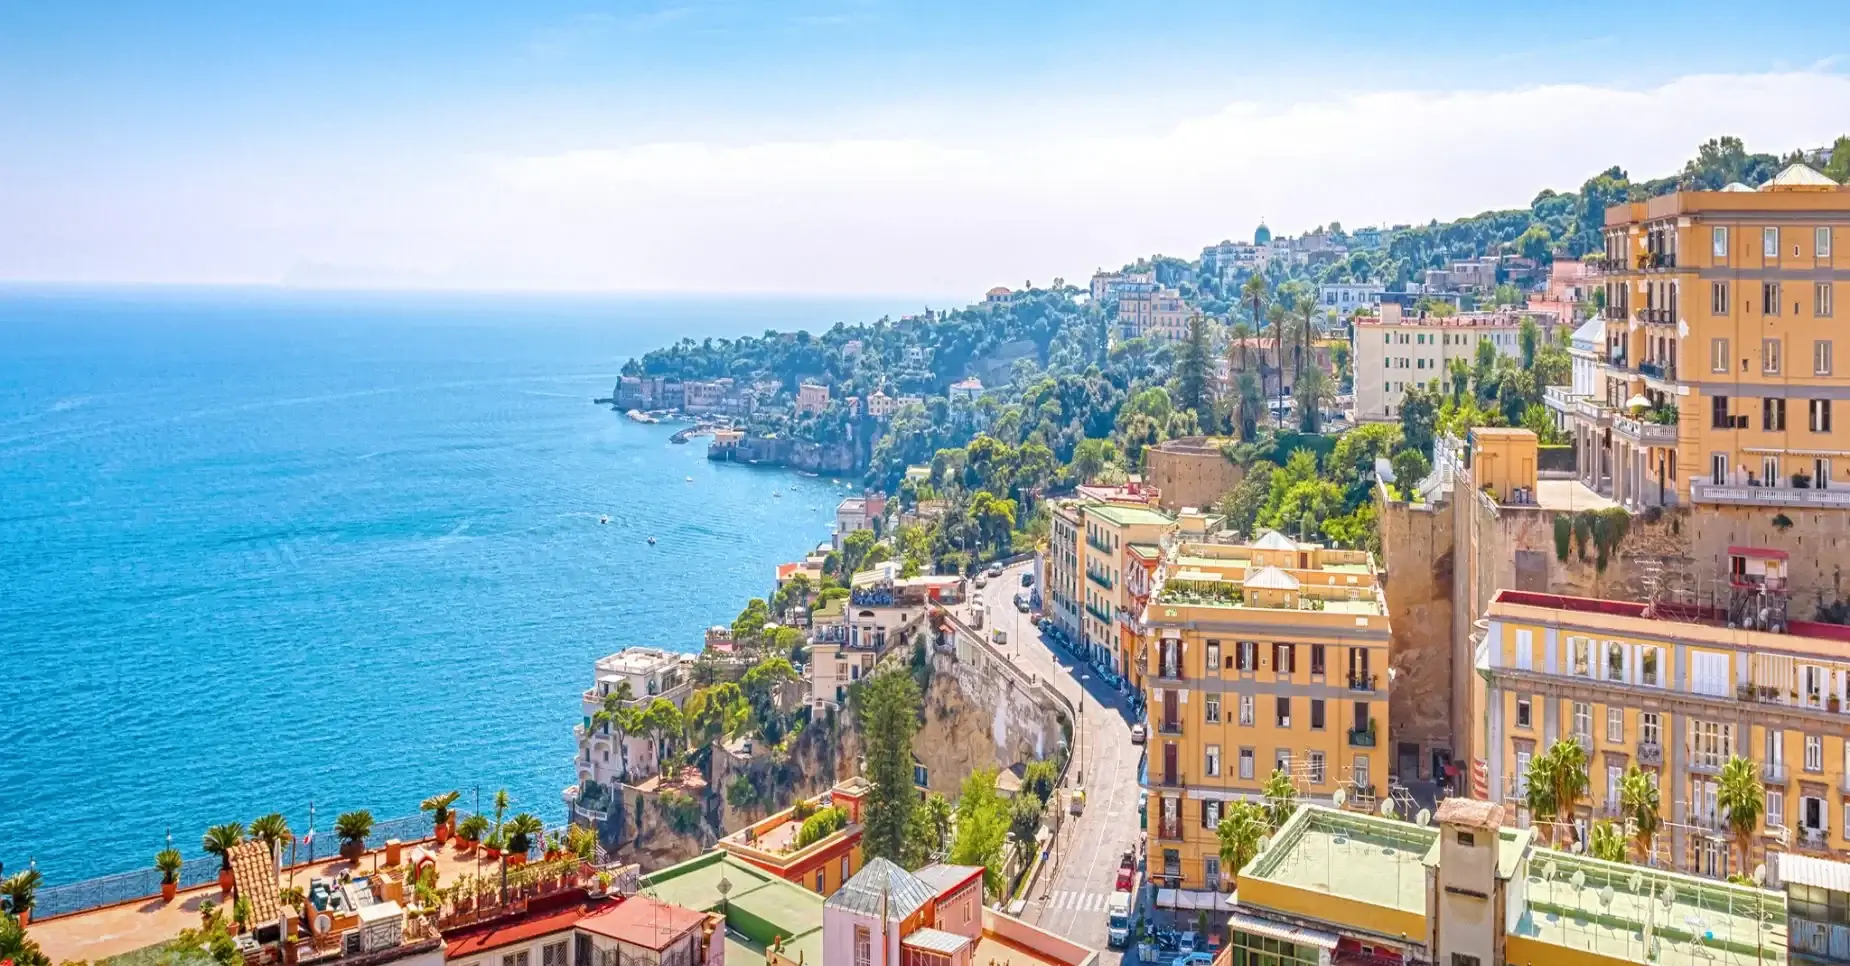
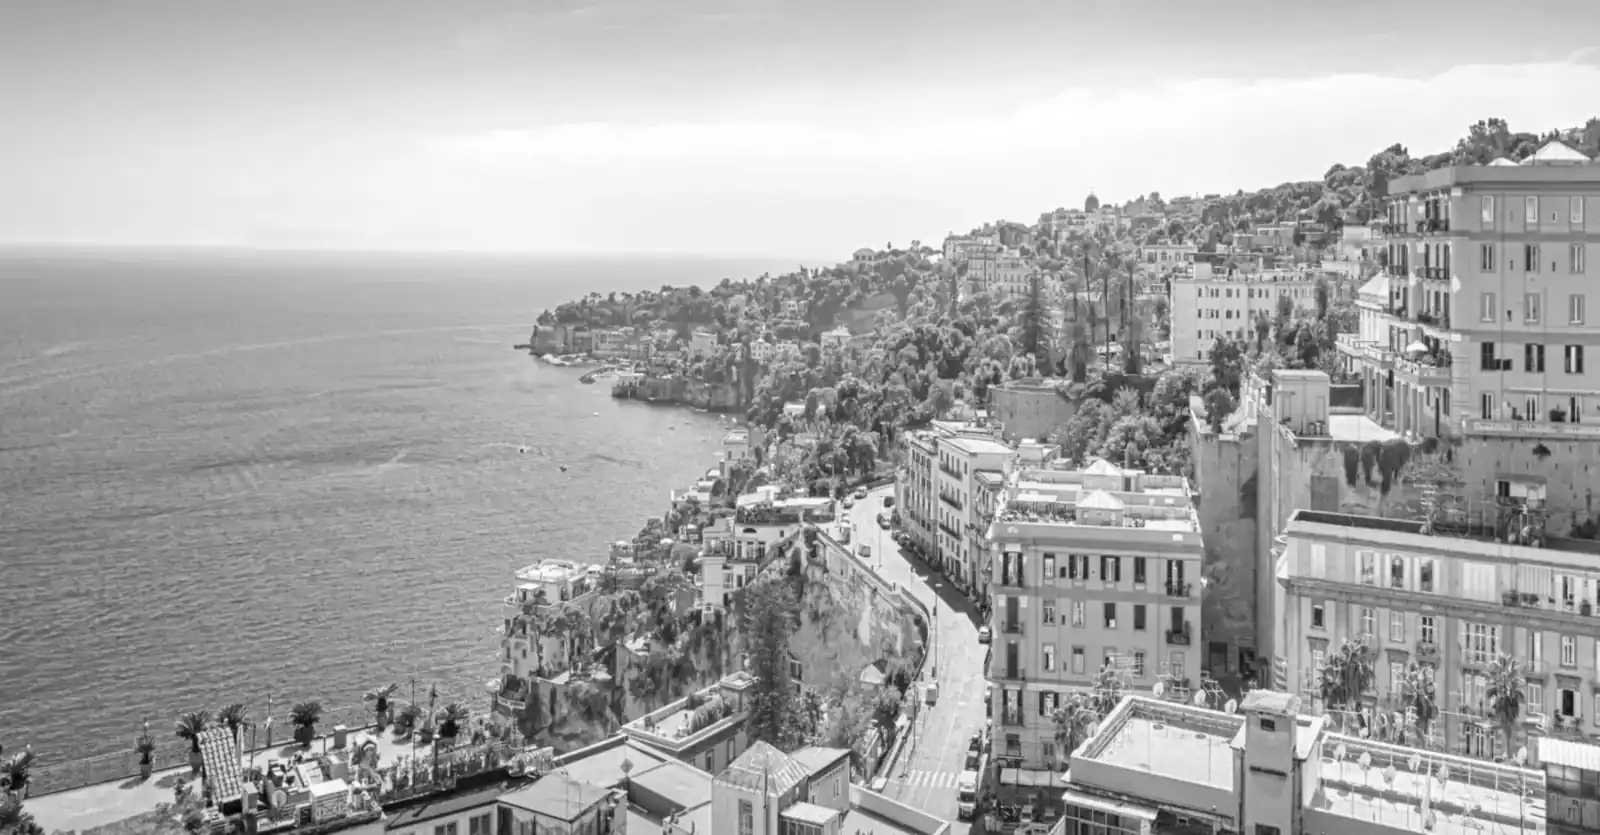
update views

diff --git a/src/app/globals.css b/src/app/globals.css
@@ -1,5 +1,8 @@
 @import "tailwindcss";
-@import '@tabler/icons-webfont/dist/tabler-icons.min.css';
+/* Tabler icons NU se importă aici. Fontul aduce 5193 de clase (~185 KB din
+   248 KB de CSS), folosite exclusiv în SearchClient (pagina /search), iar
+   globals.css e render-blocking pe TOATE paginile. Importul stă acum în
+   src/components/SearchClient.tsx, deci costul îl plătește doar /search. */
 
 /* ============================================================
    PLECĂRI — sistem de design (editorial cald)
@@ -117,10 +120,8 @@ button.primary:hover,
 .brand-name { font-family: var(--font-display); font-weight: 600; font-size: 1.5rem; letter-spacing: -0.02em; }
 
 .site-nav { display: flex; align-items: center; gap: 1.25rem; margin-left: auto; }
-.site-nav ul { display: flex; align-items: center; gap: 0.3rem; list-style: none; margin: 0; padding: 0; flex-wrap: wrap; }
-/* white-space: nowrap — o etichetă de două cuvinte ("Închirieri auto") nu se
-   rupe niciodată pe două linii în interiorul pastilei. */
-.site-nav a { display: inline-block; padding: 0.45rem 0.6rem; border-radius: 999px; color: var(--ink-soft); text-decoration: none; font-weight: 500; font-size: 0.94rem; white-space: nowrap; transition: color 0.15s, background 0.15s; }
+.site-nav ul { display: flex; align-items: center; gap: 0.35rem; list-style: none; margin: 0; padding: 0; flex-wrap: wrap; }
+.site-nav a { display: inline-block; padding: 0.45rem 0.7rem; border-radius: 999px; color: var(--ink-soft); text-decoration: none; font-weight: 500; font-size: 0.94rem; transition: color 0.15s, background 0.15s; }
 .site-nav a:hover { color: var(--ink); background: var(--sand); }
 .site-nav a.active { color: var(--clay-dark); background: color-mix(in srgb, var(--clay) 12%, transparent); }
 
@@ -134,9 +135,7 @@ button.primary:hover,
 .nav-toggle.is-open span:nth-child(2) { opacity: 0; }
 .nav-toggle.is-open span:nth-child(3) { transform: translateY(-7px) rotate(-45deg); }
 
-/* 1100px, nu 880: cu 9 verticale, rândul orizontal are nevoie de ~1083px
-   (varianta RO, cea mai lată). Sub acest prag trecem pe hamburger. */
-@media (max-width: 1100px) {
+@media (max-width: 880px) {
   .nav-toggle { display: flex; }
   .site-nav { position: absolute; left: 0; right: 0; top: 100%; background: var(--cream); border-bottom: 1px solid var(--line); flex-direction: column; align-items: stretch; gap: 0.75rem; padding: 1rem 1.25rem 1.5rem; margin-left: 0; display: none; box-shadow: var(--shadow); }
   .site-nav.is-open { display: flex; }
@@ -301,7 +300,9 @@ button.primary:hover,
 /* Search widget */
 .search-widget { margin: 2rem 0; }
 .widget-consent-gate { display: flex; flex-direction: column; align-items: center; justify-content: center; gap: 0.9rem; text-align: center; background: var(--sand); border: 1px dashed color-mix(in srgb, var(--clay) 40%, var(--line)); border-radius: var(--radius); padding: 2rem 1.5rem; color: var(--ink-soft); }
-.widget-consent-gate button { color: #111827; border-color: #d1d5db; }
+/* :not(.primary) — altfel butonul principal (fundal clay-dark) primea text
+   #111827, contrast 2.93:1. Cu albul din regula globală ajunge la 6.06:1. */
+.widget-consent-gate button:not(.primary) { color: #111827; border-color: #d1d5db; }
 
 /* Hub engine (motor de căutare pe hub) */
 .hub-engine { background: var(--paper); border: 1px solid var(--line); border-radius: var(--radius); box-shadow: var(--shadow-sm); padding: 1.5rem; margin: 0 0 2.5rem; }
@@ -325,11 +326,14 @@ button.primary:hover,
    ============================================================ */
 .cookie-consent { position: fixed; bottom: 1rem; left: 1rem; right: 1rem; max-width: 660px; margin: 0 auto; background: var(--ink); color: color-mix(in srgb, #fff 88%, var(--ink)); padding: 1.1rem 1.35rem; border-radius: var(--radius); box-shadow: 0 14px 40px rgba(43, 32, 24, 0.35); display: flex; flex-wrap: wrap; gap: 0.9rem; align-items: center; justify-content: space-between; z-index: 60; }
 .cookie-consent-text { margin: 0; font-size: 0.92rem; flex: 1 1 280px; }
-.cookie-consent a { color: var(--ochre); }
+/* underline: linkul are doar 1.77:1 contrast față de textul din jur, sub
+   pragul de 3:1 la care culoarea singură poate distinge un link. */
+.cookie-consent a { color: var(--ochre); text-decoration: underline; text-underline-offset: 2px; }
 .cookie-consent-actions { display: flex; gap: 0.5rem; }
 .cookie-consent button { border: 1px solid color-mix(in srgb, #fff 22%, transparent); background: transparent; color: #fff; padding: 0.55rem 1rem; border-radius: 999px; cursor: pointer; font-family: var(--font-body); font-weight: 600; font-size: 0.88rem; }
-.cookie-consent button.primary { background: var(--clay); border-color: var(--clay); }
-.cookie-consent button.primary:hover { background: var(--clay-dark); }
+/* clay-dark, nu clay: albul pe --clay dă 4.52:1, exact pe pragul AA. */
+.cookie-consent button.primary { background: var(--clay-dark); border-color: var(--clay-dark); }
+.cookie-consent button.primary:hover { background: var(--clay); }
 
 /* ============================================================
    HERO HOMEPAGE (foto duotone, centrat)
@@ -363,9 +367,15 @@ button.primary:hover,
 }
 .hero-photo {
   position: absolute; inset: 0;
-  background: url('/hero.webp') center/cover;
+  /* Mobile-first: sub 768px se încarcă varianta de 900px (34 KB) în loc de
+     cea de 1600px (73 KB). Imaginea e oricum acoperită de hero-tint
+     (multiply .9) și hero-veil, deci e salvată deja în tonuri de gri. */
+  background: url('/hero-mobile.webp') center/cover;
   filter: grayscale(1) contrast(1.05);
   z-index: 0;
+}
+@media (min-width: 768px) {
+  .hero-photo { background-image: url('/hero.webp'); }
 }
 .hero-tint {
   position: absolute; inset: 0;

diff --git a/src/app/[locale]/page.tsx b/src/app/[locale]/page.tsx
@@ -24,7 +24,7 @@ const DESTINATIONS = [
   { city: 'Atena', slug: 'experiente/ce-sa-faci-in-atena', color: '#1F5E56', initial: 'A' },
   { city: 'Budapesta', slug: 'experiente/ce-sa-faci-in-budapesta', color: '#8B6914', initial: 'B' },
   { city: 'Praga', slug: 'experiente/ce-sa-faci-in-praga', color: '#5B2D8E', initial: 'P' },
-  { city: 'Viena', slug: 'experiente/ce-sa-faci-in-viena', color: '#1A5C28', initial: 'V' },
+  { city: 'Viena', slug: 'city-breaks/ce-sa-faci-in-viena', color: '#1A5C28', initial: 'V' },
 ];
 
 /* ── Accent per verticală ── */
@@ -37,7 +37,6 @@ const VERTICAL_ACCENT: Record<string, string> = {
   'inchirieri-auto': '#1A5C28',
   'city-breaks': '#8B2252',
   experiente: '#B8860B',
-  calatorii: '#8B2252',
 };
 
 /* ── SVG-uri line-art per verticală ── */
@@ -142,6 +141,12 @@ export default function HomePage({ params }: Props) {
       {/* ═══════════════════════════════════════════
           1. HERO — text animat + glassmorphism
           ═══════════════════════════════════════════ */}
+      {/* Imaginea LCP e un background CSS, deci preload scanner-ul nu o vede în
+          HTML: ajunge să fie cerută abia după ce se descarcă CSS-ul. Preload-ul
+          o face descoperibilă în documentul inițial și îi dă prioritate. */}
+      <link rel="preload" as="image" href="/hero-mobile.webp" media="(max-width: 767px)" fetchPriority="high" />
+      <link rel="preload" as="image" href="/hero.webp" media="(min-width: 768px)" fetchPriority="high" />
+
       <section className="hero">
         <div className="hero-photo" />
         <div className="hero-tint" />

diff --git a/src/components/SearchClient.tsx b/src/components/SearchClient.tsx
@@ -1,4 +1,8 @@
 'use client';
+
+// Fontul de iconițe se încarcă DOAR pe /search, singurul loc unde se folosesc.
+// Importat din globals.css ar fi fost render-blocking pe tot site-ul (~185 KB).
+import '@tabler/icons-webfont/dist/tabler-icons.min.css';
 // src/components/SearchClient.tsx — v2: Tabler icons, sort, reading time, keyboard nav
 
 import { useCallback, useTransition, useRef, useEffect, useState } from 'react';
